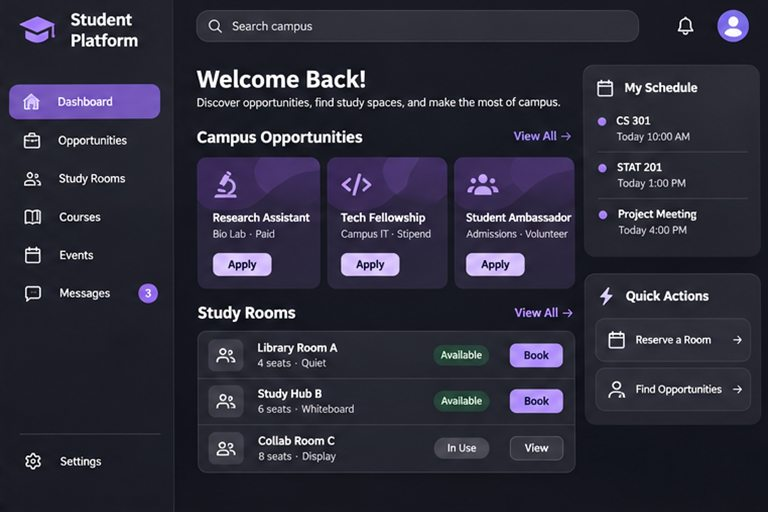
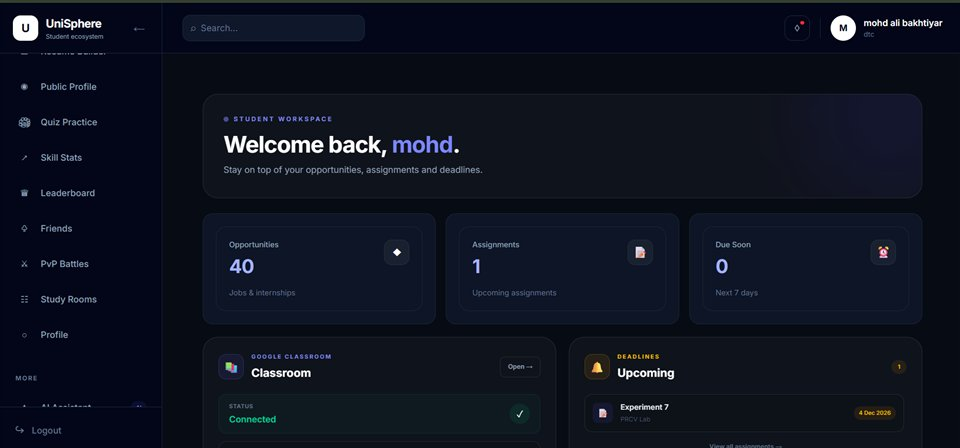
Feature UniSphere and refresh portfolio project previews

diff --git a/src/data.js b/src/data.js
@@ -1,6 +1,42 @@
 const base='https://github.com/aliibakhtiyar/';
 export const github='https://github.com/aliibakhtiyar';
 export const linkedin='https://in.linkedin.com/in/ali-bakhtiyar-b224b229a';
+
+const unisphere={
+  id:'student-project-main',
+  name:'UniSphere',
+  category:'Full stack',
+  screenshot:true,
+  liveUrl:'https://student-project-main-1.onrender.com/dashboard',
+  url:base+'student-project-main',
+  tagline:'Learn. Compete. Collaborate. Grow.',
+  description:'A student platform for academic planning, coding practice, campus collaboration and career development.',
+  stack:['React','Node.js','MongoDB','Tailwind CSS','Socket.IO'],
+  featuresTitle:'Complete features',
+  features:[
+    'Student Dashboard – Personalized dashboard and activity tracking.',
+    'Hackathons & Events – Discover, register for and participate in competitions.',
+    'GitHub Integration – Track repositories and coding contributions.',
+    'LinkedIn Integration – Connect professional profiles.',
+    'LeetCode Integration – Track coding progress and problem-solving stats.',
+    'Skill Statistics – Analyze skills, performance and growth.',
+    'Global Leaderboard – Student rankings, XP and achievements.',
+    'PvP Battle Arena – Real-time one-on-one coding and quiz battles.',
+    'Study Rooms – Collaborative group study and discussions.',
+    'AI Resume Builder – Generate ATS-friendly resumes.',
+    'AI Career Assistant – Career guidance and personalized recommendations.',
+    'AI Quiz & Challenges – AI-generated quizzes and skill-based challenges.',
+    'AI Skill Analysis – Identify strengths and weaknesses.',
+    'AI Team Builder – Find teammates based on skills.',
+    'Student Community – Connect, communicate and collaborate.',
+    'Jobs & Internships – Discover career opportunities.',
+    'Project Showcase – Showcase projects and achievements.',
+    'Google Classroom Integration – Academic updates and assignments.',
+    'Mentor Connect – Connect with mentors and experienced developers.',
+    'Notifications System – Real-time alerts for events, battles and opportunities.'
+  ]
+};
+
 const liveSites=[
   {
     id:'taskassist',
@@ -30,18 +66,41 @@ const liveSites=[
     description:'A 60-day learning roadmap covering MERN fundamentals, generative AI projects and production engineering.',
     features:['Guided 60-day learning path','Web development and generative AI projects','Security, performance and reliability topics']
   }
-].map(project=>({...project,category:'Live sites'}));
+].map(project=>({...project,category:'Live sites',screenshot:true}));
 
 const repositories=[
+  {
+    name:'Thruft Clothing',
+    repo:'thruftclothing',
+    category:'Frontend',
+    screenshot:true,
+    liveUrl:'https://aliibakhtiyar.github.io/thruftclothing/',
+    description:'A fashion landing page centered on upcycling clothes and fabrics.',
+    features:['Editorial typography and fashion imagery','Pricing and sustainability sections','Trial and video calls to action']
+  },
+  {
+    name:'Jayzhushi Portfolio Study',
+    repo:'Jayzhushiwebclone',
+    category:'Frontend',
+    screenshot:true,
+    liveUrl:'https://aliibakhtiyar.github.io/Jayzhushiwebclone/',
+    description:'A frontend recreation of Jayzhushi’s design portfolio for UI practice.',
+    features:['Typography-led homepage','Project gallery and About navigation','Theme and sound controls in the header']
+  },
  {name:'MediCall AI',repo:'medicall-ai',category:'AI',number:'01',theme:'medical',symbol:'✳',description:'A conversational AI application for doctor and appointment queries, with a React client, Express server and voice conversation mode.',stack:['React','Tailwind CSS','Express','MongoDB','Vapi','Groq'],features:['React client and Node.js API','Doctor and appointment chat interface','Live voice conversation and transcription flow','Patient token and authentication logic'],source:'README, client/server package manifests and client App.jsx'},
- {name:'Student Platform',repo:'student-project-main',category:'Full stack',number:'02',theme:'student',symbol:'◈',description:'A MERN student platform documented around academic resources, career opportunities and campus community features.',stack:['React','Node.js','MongoDB','Tailwind CSS','Socket.IO'],features:['Student authentication and dashboard','Hackathons, events and internships','AI student assistant, leaderboards, PvP and study rooms'],source:'Repository README, frontend package manifest and App.jsx'},
- {name:'ReviewGuard Intelligence',repo:'ai_debate',category:'AI',number:'03',theme:'review',symbol:'◎',description:'A multi-workspace review operations and investigation application, documented with deterministic analysis and AI workflows.',stack:['React','Express','MongoDB','FastAPI','LangGraph','Redis'],features:['CSV, XLSX and JSON review imports','Deterministic review analysis and investigation cases','AI-assisted investigations with citation checks'],source:'Repository README (repository name: ai_debate)'},
  {name:'Laundry Order Management',repo:'Laundry-Order',category:'Full stack',number:'04',theme:'laundry',symbol:'▤',description:'A full-stack dry-cleaning order management system with status tracking and a business dashboard.',stack:['React','Tailwind CSS','Express','MongoDB'],features:['Garment order creation and billing','Search and status filters','Revenue dashboard and order editing'],source:'Repository README'},
- {name:'React Shop App',repo:'ReactShopApp',category:'Frontend',number:'05',theme:'shop',symbol:'◇',description:'A React shopping project with Redux Toolkit, React Router and Tailwind CSS dependencies.',stack:['React','Redux Toolkit','React Router','Tailwind CSS'],features:['React and Vite application','Redux Toolkit state management dependency','Page and component structure'],source:'Repository package manifest and src directory'},
- {name:'Al-Zaika',repo:'al-zaika',category:'Frontend',number:'06',theme:'food',symbol:'◒',description:'A restaurant-themed web front end with a restaurant search interface and food-tracking navigation.',stack:['HTML','CSS','JavaScript'],features:['Static web application','Restaurant search interface','Food-tracking navigation in the page markup'],source:'Repository root directory'},
+ {name:'Al-Zaika',repo:'al-zaika',category:'Frontend',screenshot:true,number:'06',theme:'food',symbol:'◒',description:'A restaurant-themed web front end with a restaurant search interface and food-tracking navigation.',stack:['HTML','CSS','JavaScript'],features:['Static web application','Restaurant search interface','Food-tracking navigation in the page markup'],source:'Repository root directory'},
  {name:'BOOKHUB',repo:'BOOKHUB',category:'Full stack',number:'07',theme:'book',symbol:'▱',description:'A project organized into frontend and backend folders, with a React frontend and form/API integration dependencies.',stack:['React','Tailwind CSS','Axios','React Hook Form'],features:['Separate frontend and backend','React frontend','Form and HTTP client dependencies'],source:'Repository root and frontend package manifest'},
- {name:'Zomato Insta',repo:'Zomato-insta',category:'Archive',number:'08',theme:'food',symbol:'◉',description:'A public repository containing a Zomato clone ZIP archive. Internal functionality has not been verified.',stack:[],features:['Public project archive'],source:'Repository root directory'}
+  {
+    name:'Zomato Insta',
+    repo:'Zomato-insta',
+    category:'Archive',
+    tagline:'Reel-based food ordering UI',
+    description:'A food-ordering UI concept that lets diners discover dishes through short restaurant videos and add the dish they’re watching to a cart.',
+    featuresTitle:'Ordering flow',
+    features:['Vertical food reels for browsing dishes','Dish details and pricing alongside the reel','Add-to-cart action for the dish in view']
+  }
 ].map(project=>({...project,id:project.repo.toLowerCase(),url:base+project.repo}));
 
-export const projects=[...liveSites,...repositories];
+export const projects=[unisphere,...liveSites,...repositories];
 export const skills=[['HTML','Frontend','Semantic page structure'],['CSS','Frontend','Responsive styling and layouts'],['JavaScript','Frontend','Interactive web applications'],['React','Frontend','Component-based UI'],['Tailwind CSS','Frontend','Utility-first styling'],['GSAP','Creative','Timeline-based web animation'],['Node.js','Backend','JavaScript server runtime'],['Express','Backend','REST API development'],['MongoDB','Backend','Document database'],['C++','Programming','Programming and problem solving'],['Python','Programming','Scripting and AI applications'],['Git','Tools','Version control'],['GitHub','Tools','Repository collaboration'],['Next.js','Learning','Currently exploring routing and rendering in Next.js']];

diff --git a/src/Work.jsx b/src/Work.jsx
@@ -8,7 +8,7 @@ const mobileProjectLimit = 4;
 
 function Cover({ project }) {
   return <div className="gallery-cover" aria-hidden="true">
-    <img src={'/gallery/' + project.id + '.jpg'} alt="" width={project.liveUrl ? 960 : 768} height={project.liveUrl ? 448 : 512} loading="lazy" decoding="async"/>
+    <img src={'/gallery/' + project.id + '.jpg'} alt="" width={project.screenshot ? 960 : 768} height={project.screenshot ? 448 : 512} loading="lazy" decoding="async"/>
   </div>;
 }
 
@@ -19,7 +19,11 @@ function ProjectCard({ project, onOpen }) {
       <span className="gallery-open" aria-hidden="true"><Plus size={19}/></span>
     </button>
     <div className="gallery-caption">
-      <div><p>{project.liveUrl ? 'Live website' : project.category}</p><h3>{project.name}</h3></div>
+      <div>
+        <p>{project.liveUrl ? 'Live website' : project.category}</p>
+        <h3>{project.name}</h3>
+        {project.tagline && <span className="gallery-tagline">{project.tagline}</span>}
+      </div>
       <a className="gallery-link" href={project.liveUrl || project.url} target="_blank" rel="noreferrer"
         aria-label={'Open ' + project.name + (project.liveUrl ? ' website' : ' on GitHub')}>
         {project.liveUrl ? 'Visit site' : 'Source'}<ArrowUpRight size={16} aria-hidden="true"/>
@@ -43,15 +47,17 @@ function ProjectDialog({ project, onClose }) {
       <button type="button" autoFocus className="icon-button dialog-close" onClick={onClose} aria-label="Close project"><X size={20}/></button>
       <Cover project={project}/>
       <div className="dialog-copy">
-        <p className="eyebrow">{project.liveUrl ? 'Website screenshot' : project.category + ' / UI concept'}</p>
+        <p className="eyebrow">{project.screenshot ? 'Website screenshot' : project.category + ' / UI concept'}</p>
         <h2 id="project-title">{project.name}</h2>
+        {project.tagline && <p className="project-tagline">{project.tagline}</p>}
         <p>{project.description}</p>
-        <h3>{project.liveUrl ? 'Website highlights' : 'Repository highlights'}</h3>
+        <div className="project-actions">
+          {project.liveUrl && <a className="button primary" href={project.liveUrl} target="_blank" rel="noreferrer">Visit live website <ArrowUpRight size={17}/></a>}
+          {project.url && <a className={'button ' + (project.liveUrl ? 'secondary' : 'primary')} href={project.url} target="_blank" rel="noreferrer"><Github size={17}/> View source on GitHub</a>}
+        </div>
+        <h3>{project.featuresTitle || (project.liveUrl ? 'Website highlights' : 'Repository highlights')}</h3>
         <ul>{project.features.map((feature) => <li key={feature}>{feature}</li>)}</ul>
         {project.stack?.length > 0 && <div className="tags">{project.stack.map((item) => <span key={item}>{item}</span>)}</div>}
-        {project.liveUrl
-          ? <a className="button primary" href={project.liveUrl} target="_blank" rel="noreferrer">Visit live website <ArrowUpRight size={17}/></a>
-          : <a className="button primary" href={project.url} target="_blank" rel="noreferrer"><Github size={17}/> View source on GitHub</a>}
       </div>
     </div>}
   </dialog>;
@@ -96,7 +102,7 @@ export default function Work({ motion }) {
     }
   }, [category, expanded]);
 
-  const filtered = projects.filter((item) => category === 'All' || item.category === category);
+  const filtered = projects.filter((item) => category === 'All' || (category === 'Live sites' ? Boolean(item.liveUrl) : item.category === category));
   const canExpand = compact && category === 'All' && filtered.length > mobileProjectLimit;
   const shown = canExpand && !expanded ? filtered.slice(0, mobileProjectLimit) : filtered;
 

diff --git a/src/gallery.css b/src/gallery.css
@@ -130,6 +130,7 @@
 }
 .gallery-caption p { color: var(--muted); font-size: .78rem; letter-spacing: .035em; margin-bottom: 5px; }
 .gallery-caption h3 { font-size: clamp(1.08rem, 2.1vw, 1.65rem); color: white; font-weight: 740; letter-spacing: -.035em; line-height: 1.15; }
+.gallery-tagline { display: block; margin-top: 6px; color: var(--muted); font-size: .84rem; line-height: 1.4; }
 .gallery-link { display: inline-flex; align-items: center; justify-content: center; gap: 5px; min-height: 44px; padding-inline: 10px; border: 1px solid #475341; border-radius: 7px; color: #e1eead; font-size: .84rem; font-weight: 650; white-space: nowrap; }
 .gallery-link:hover { background: #263023; border-color: #9bac7b; }
 .gallery-open { position: absolute; right: 10px; bottom: 10px; display: grid; place-items: center; width: 36px; height: 36px; color: #fff; background: #141815ed; border: 1px solid #fff7; border-radius: 50%; transition: transform .25s, background .25s, color .25s; }
@@ -137,6 +138,10 @@
 :root:has(dialog[open]) { overflow: hidden; }
 .project-dialog { background: #141916; border-color: #475047; }
 .project-dialog .dialog-copy .eyebrow { color: #dcebaf; }
+.project-tagline { margin-bottom: 8px; color: #dcebaf; font-weight: 650; }
+.project-actions { display: flex; flex-wrap: wrap; gap: 8px; margin: 16px 0 22px; }
+.project-actions .button { margin-top: 0; }
+.project-dialog li + li { margin-top: 6px; }
 .stack-section { border-top: 0; }
 .stack-visual-panel { border-color: #3c4940; }
 .stack-visual-panel .architecture-heading, .stack-tabs { background: #17201c; border-color: #344137; }
